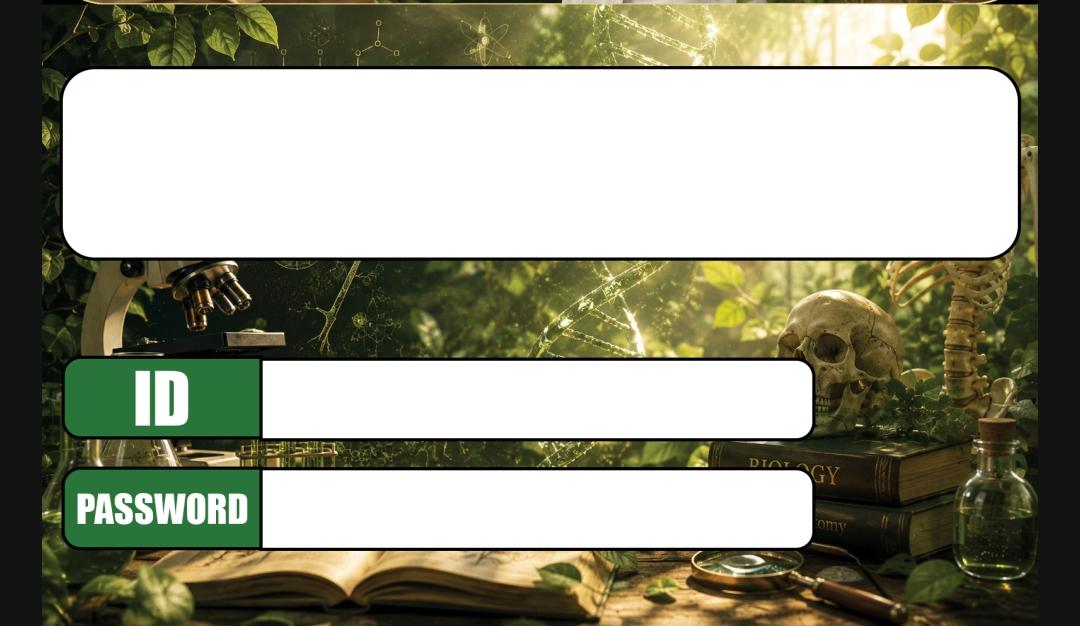
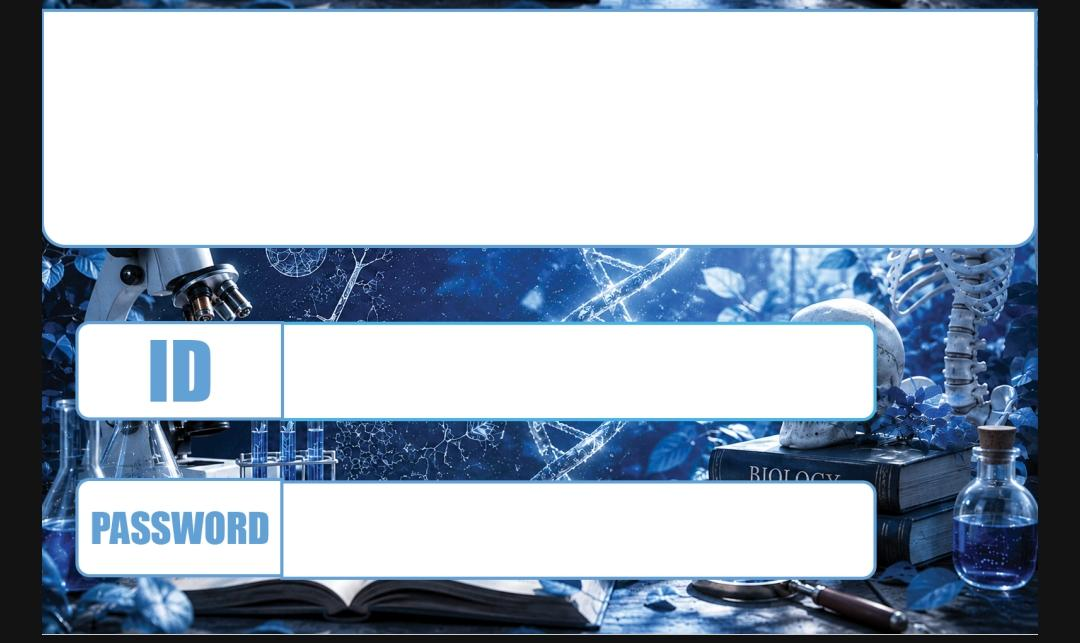
commit data

diff --git a/app/Jobs/MakeCard.php b/app/Jobs/MakeCard.php
@@ -20,13 +20,13 @@ class MakeCard implements ShouldQueue
     private const BARCODE_W         = 1500; // final footprint width (px)
     private const BARCODE_H         = 150;  // final footprint height (px)
     private const BARCODE_OFFSET_X  = 170;    // nudge after centering (left = negative)
-    private const BARCODE_OFFSET_Y  = -120;    // nudge after centering (down = positive)
+    private const BARCODE_OFFSET_Y  = -160;    // nudge after centering (down = positive)
 
     // ------- CODE (ID) controls — independent of password -------
     private const CODE_LABEL_PAD    = 100;  // skip the green "ID" chip
     private const CODE_TEXT_SIZE    = 55;
     private const CODE_OFFSET_X     = 150; // left = negative, right = positive
-    private const CODE_OFFSET_Y     =  -10;  // up = negative, down = positive
+    private const CODE_OFFSET_Y     =  -50;  // up = negative, down = positive
 
     // ------- PASSWORD controls — independent of code -------
     private const PASSWORD_LABEL_PAD = 180; // skip the green "PASSWORD" chip
